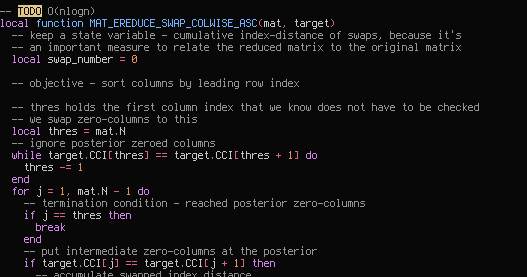
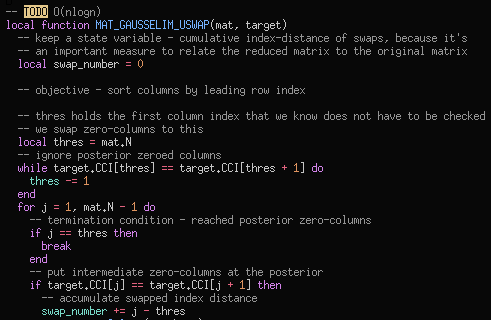
improve screenshots

Changed region(s): [[0.0, 0.3466, 1.0, 1.0], [0.0, 0.0, 0.947, 0.231], [0.0305, 0.2599, 0.611, 0.3177]]

diff --git a/README.md b/README.md
@@ -3,7 +3,7 @@
 <img style="float: left;" src="luau-vim-repologo-160x160.png"/>
 
 Vimscript syntax highlighting plugin for Luau and Roblox Luau. 
-This plugin intends to provide good support for Luau and Roblox Luau in Vim, Neovim and other vimscript plugin respecting flavors of Vim.
+This plugin intends to provide good support for Luau and Roblox Luau in Vim, Neovim, and other flavors of Vim.
 
 It's still experimental. You may be surprised by highlighting that bleeds over or appears missing. If that's important to you, it's important to [create an issue](https://github.com/polychromatist/luau-vim/issues).
 
@@ -12,11 +12,11 @@ It's still experimental. You may be surprised by highlighting that bleeds over o
 Here you can see some screenshots of luau-vim v0.1, in the [moonfly theme](https://github.com/bluz71/vim-moonfly-colors).
 Please note it's an older version.
 
-![three, add method](screenshots/three-add.png)
+![protomodroot: \<module\>().pathparse()](screenshots/protomodroot_parser1.png)
 
-![geoplane, Box type](screenshots/geoplane-box-type.png)
+![@evaera/matter/lib/World#query()](screenshots/evaera_matter_world_query.png)
 
-![geoplane, Mesh3.CSCMatrix](screenshots/geoplane-mesh3-cscmat-nfn.png)
+![geoplane/Mesh3/CSCMatrix: MAT_GAUSSELIM_USWAP()](screenshots/geoplane-mesh3-cscmat-nfn.png)
 
 ## Installation
 Installing is as simple as pulling the repo with your preferred plugin manager.
